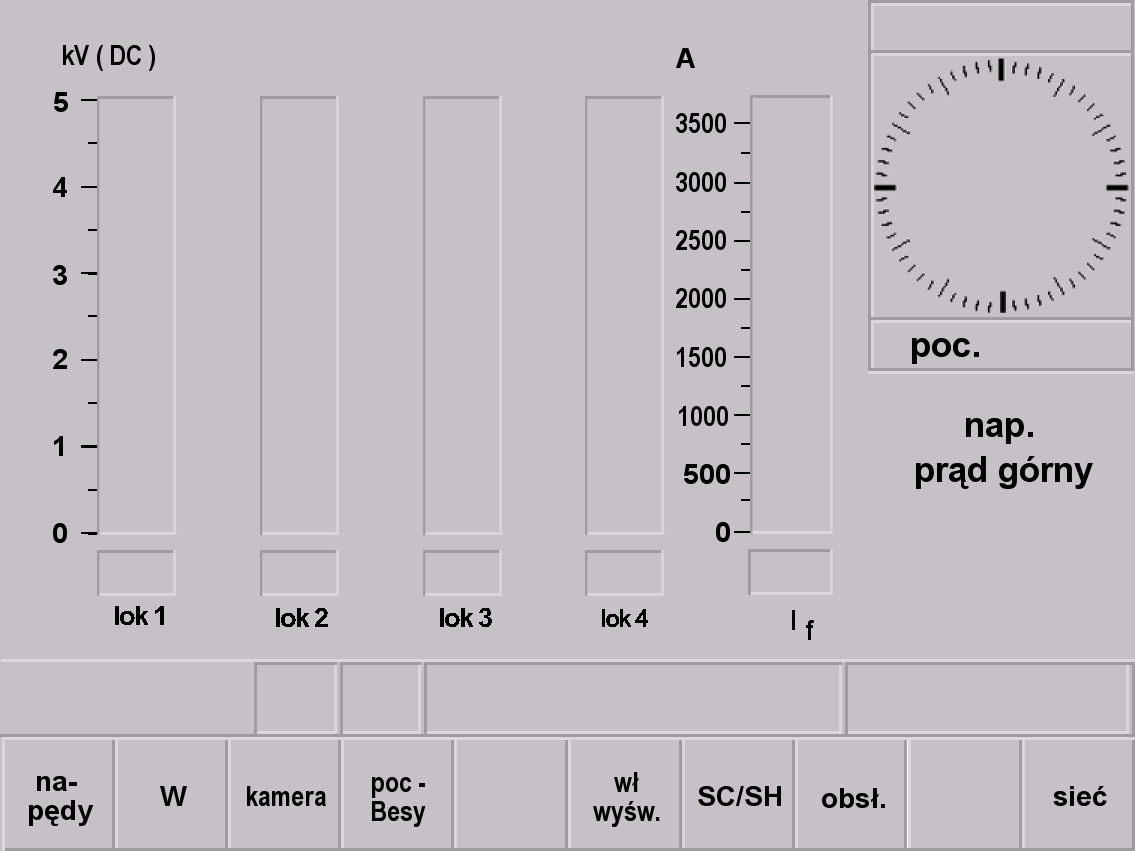
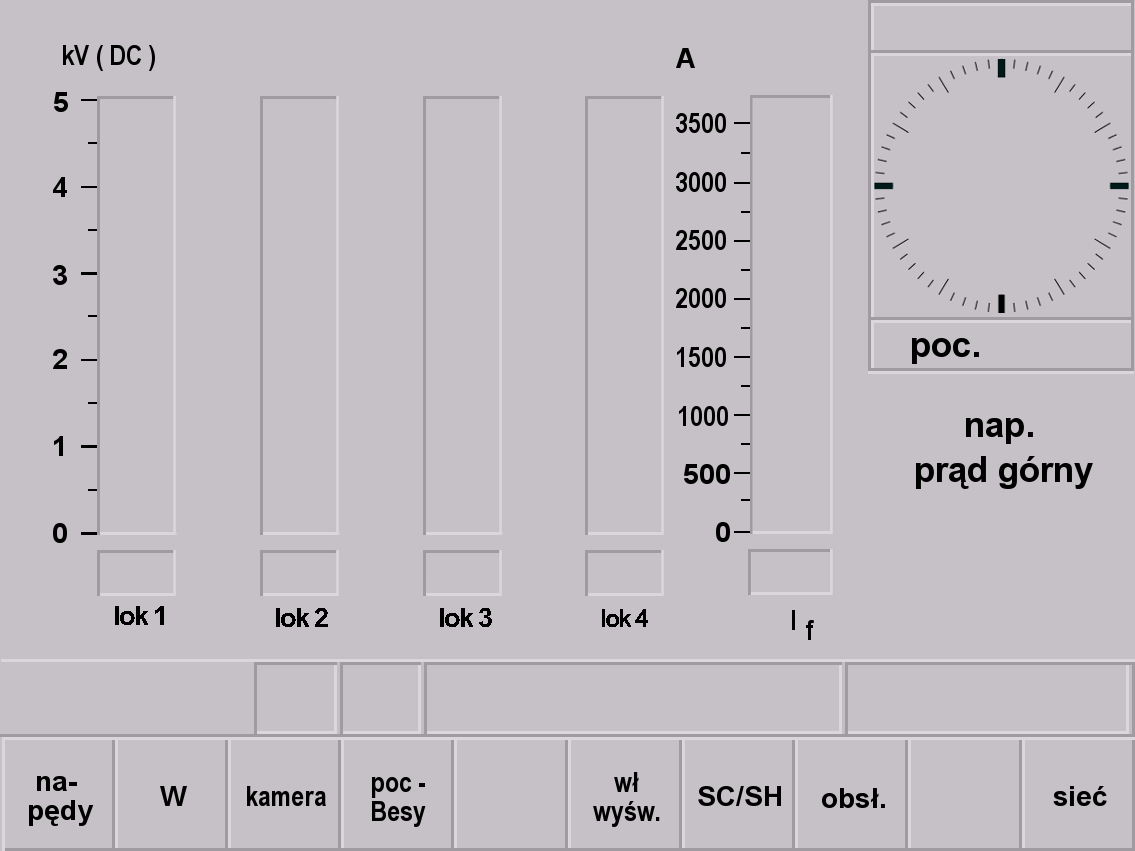
Nocny kontrast dla pozostałych trybów ukrotnienia. Poprawki do poprzednich teł.

diff --git a/traxx_renderer.py b/traxx_renderer.py
@@ -30,6 +30,8 @@ class traxx_renderer(abstractscreenrenderer):
 		self.diag_4_day = Image.open(lookup_path + "diag_4_day.png")
 		self.diag_1_night = Image.open(lookup_path + "diag_1_night.png")
 		self.diag_2_night = Image.open(lookup_path + "diag_2_night.png")
+		self.diag_3_night = Image.open(lookup_path + "diag_3_night.png")
+		self.diag_4_night = Image.open(lookup_path + "diag_4_night.png")
 		self.maska  = Image.open(lookup_path + "maska.png")
 		self.shp  = Image.open(lookup_path + "shp.png")
 		self.pedal  = Image.open(lookup_path + "pedal.png")
@@ -193,6 +195,8 @@ class traxx_renderer(abstractscreenrenderer):
 				obrazek.paste(self.ws,(801,1551),self.ws)
 			if (state['doors_2']==0 and state['doors_no_2']>0):
 				obrazek.paste(self.drzwi,(942,1551),self.drzwi)
+			# draw.text((942,1651), "door_2=" + str(state['doors_2']), fill=czarny_diag, font=self.maly_arial)
+			# draw.text((942,1751), "doors_no_2=" + str(state['doors_no_2']), fill=czarny_diag, font=self.maly_arial)
 			
 #Ekran diagnostyczny--------------------------------------------------------------------------------------------------------------------------------------------------------------------
 			if (pojazdy ==1):
@@ -206,9 +210,15 @@ class traxx_renderer(abstractscreenrenderer):
 				if (state['universal3']==1):
 					obrazek.paste(self.diag_2_night,(130,54),self.diag_2_night)
 			if (pojazdy ==3):
-				obrazek.paste(self.diag_3_day,(130,54),self.diag_3_day)
+				if (state['universal3']==0):
+					obrazek.paste(self.diag_3_day,(130,54),self.diag_3_day)
+				if (state['universal3']==1):
+					obrazek.paste(self.diag_3_night,(130,54),self.diag_3_night)
 			if (pojazdy ==4):
-				obrazek.paste(self.diag_4_day,(130,54),self.diag_4_day)
+				if (state['universal3']==0):
+					obrazek.paste(self.diag_4_day,(130,54),self.diag_4_day)
+				if (state['universal3']==1):
+					obrazek.paste(self.diag_4_night,(130,54),self.diag_4_night)
 	#diag data
 			draw.text((1021,60), DayL[dzien] + ", " + data, fill=czarny_diag, font=self.sredni_arial)
 	#diag nr pociągu
@@ -347,7 +357,7 @@ class traxx_renderer(abstractscreenrenderer):
 				if wolt>5000:
 					wolt=5000
 				napiecie = 586-(0.0866*wolt)
-				draw.rectangle(((266,586),(358,napiecie)), fill=niebieski_diag)
+				draw.rectangle(((267,586),(358,napiecie)), fill=niebieski_diag)
 				if wolt>2500:
 					draw.rectangle(((267,608),(358,646)), fill=niebieski_diag)
 				if state['eimp_c1_ms']:
@@ -361,38 +371,38 @@ class traxx_renderer(abstractscreenrenderer):
 				if wolt>5000:
 					wolt=5000
 				napiecie = 586-(0.0866*wolt)
-				draw.rectangle(((373,586),(465,napiecie)), fill=niebieski_diag)
+				draw.rectangle(((448,586),(541,napiecie)), fill=niebieski_diag)
 				if wolt>2500:
-					draw.rectangle(((374,608),(465,646)), fill=niebieski_diag)
+					draw.rectangle(((448,608),(541,646)), fill=niebieski_diag)
 				if state['eimp_c2_ms']:
-					draw.text((378,613), u'WG wł', font=self.maly_arial, fill=bialy_diag)
+					draw.text((452,613), u'WG wł', font=self.maly_arial, fill=bialy_diag)
 				elif wolt>2500:
-					draw.text((372,613), u'WG wył', font=self.maly_arial, fill=bialy_diag)
+					draw.text((446,613), u'WG wył', font=self.maly_arial, fill=bialy_diag)
 				else:
-					draw.text((372,613), u'WG wył', font=self.maly_arial, fill=czarny_diag)
+					draw.text((446,613), u'WG wył', font=self.maly_arial, fill=czarny_diag)
 				#wolto3
 				wolt = state['eimp_c3_uhv']
 				if wolt>5000:
 					wolt=5000
 				napiecie = 586-(0.0866*wolt)
-				draw.rectangle(((480,586),(572,napiecie)), fill=niebieski_diag)
+				draw.rectangle(((630,586),(722,napiecie)), fill=niebieski_diag)
 				if wolt>2500:
-					draw.rectangle(((481,608),(572,646)), fill=niebieski_diag)
+					draw.rectangle(((630,608),(722,646)), fill=niebieski_diag)
 				if state['eimp_c3_ms']:
-					draw.text((485,613), u'WG wł', font=self.maly_arial, fill=bialy_diag)
+					draw.text((634,613), u'WG wł', font=self.maly_arial, fill=bialy_diag)
 				elif wolt>2500:
-					draw.text((479,613), u'WG wył', font=self.maly_arial, fill=bialy_diag)
+					draw.text((628,613), u'WG wył', font=self.maly_arial, fill=bialy_diag)
 				else:
-					draw.text((479,613), u'WG wył', font=self.maly_arial, fill=czarny_diag)
+					draw.text((628,613), u'WG wył', font=self.maly_arial, fill=czarny_diag)
 				#ampery
 				prad = state['eimp_t_itothv']
 				if prad<0:
 					prad=0
-				self.print_fixed_with(draw, '2000', (728,607), 4, self.sredni_arial, czarny_diag)
+				self.print_fixed_with(draw, '2000', (836,607), 4, self.sredni_arial, czarny_diag)
 				if prad>3700:
 					prad=3700
 				ampery = 586-(0.1183*prad)
-				draw.rectangle(((725,586),(818,ampery)), fill=niebieski_diag)
+				draw.rectangle(((833,586),(925,ampery)), fill=niebieski_diag)
 
 	#diag slupki 4
 			if (pojazdy == 4):
